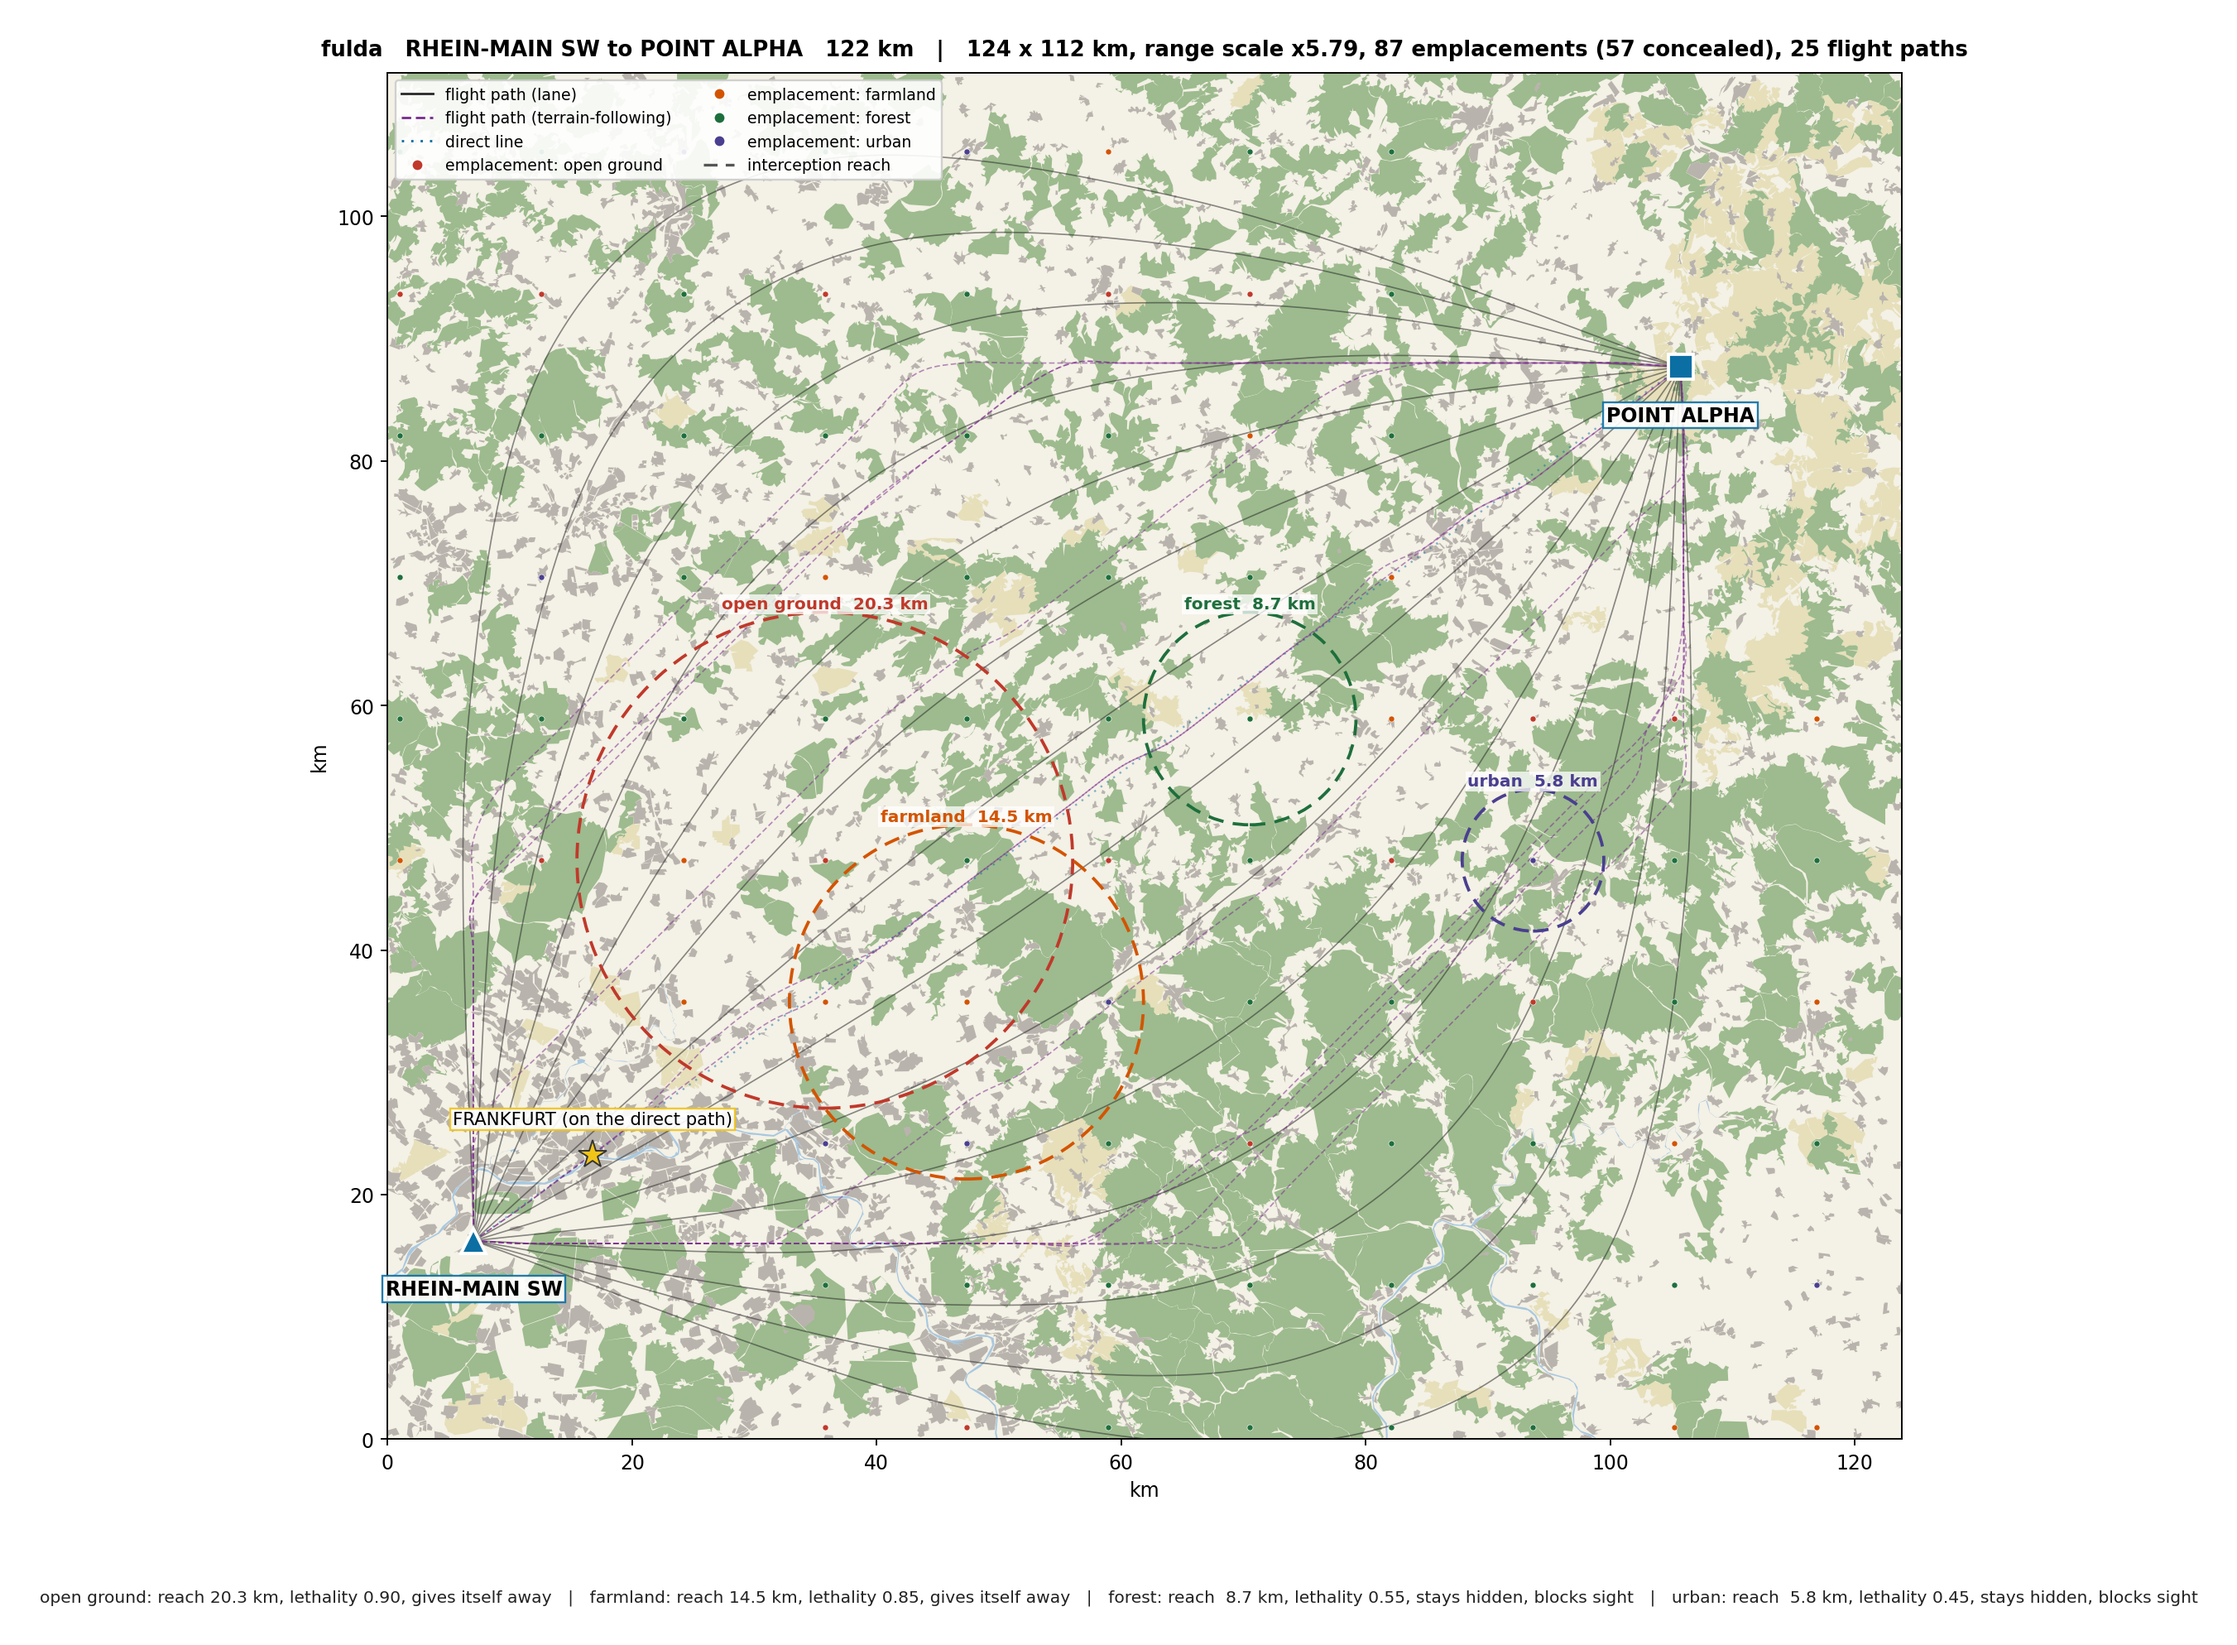
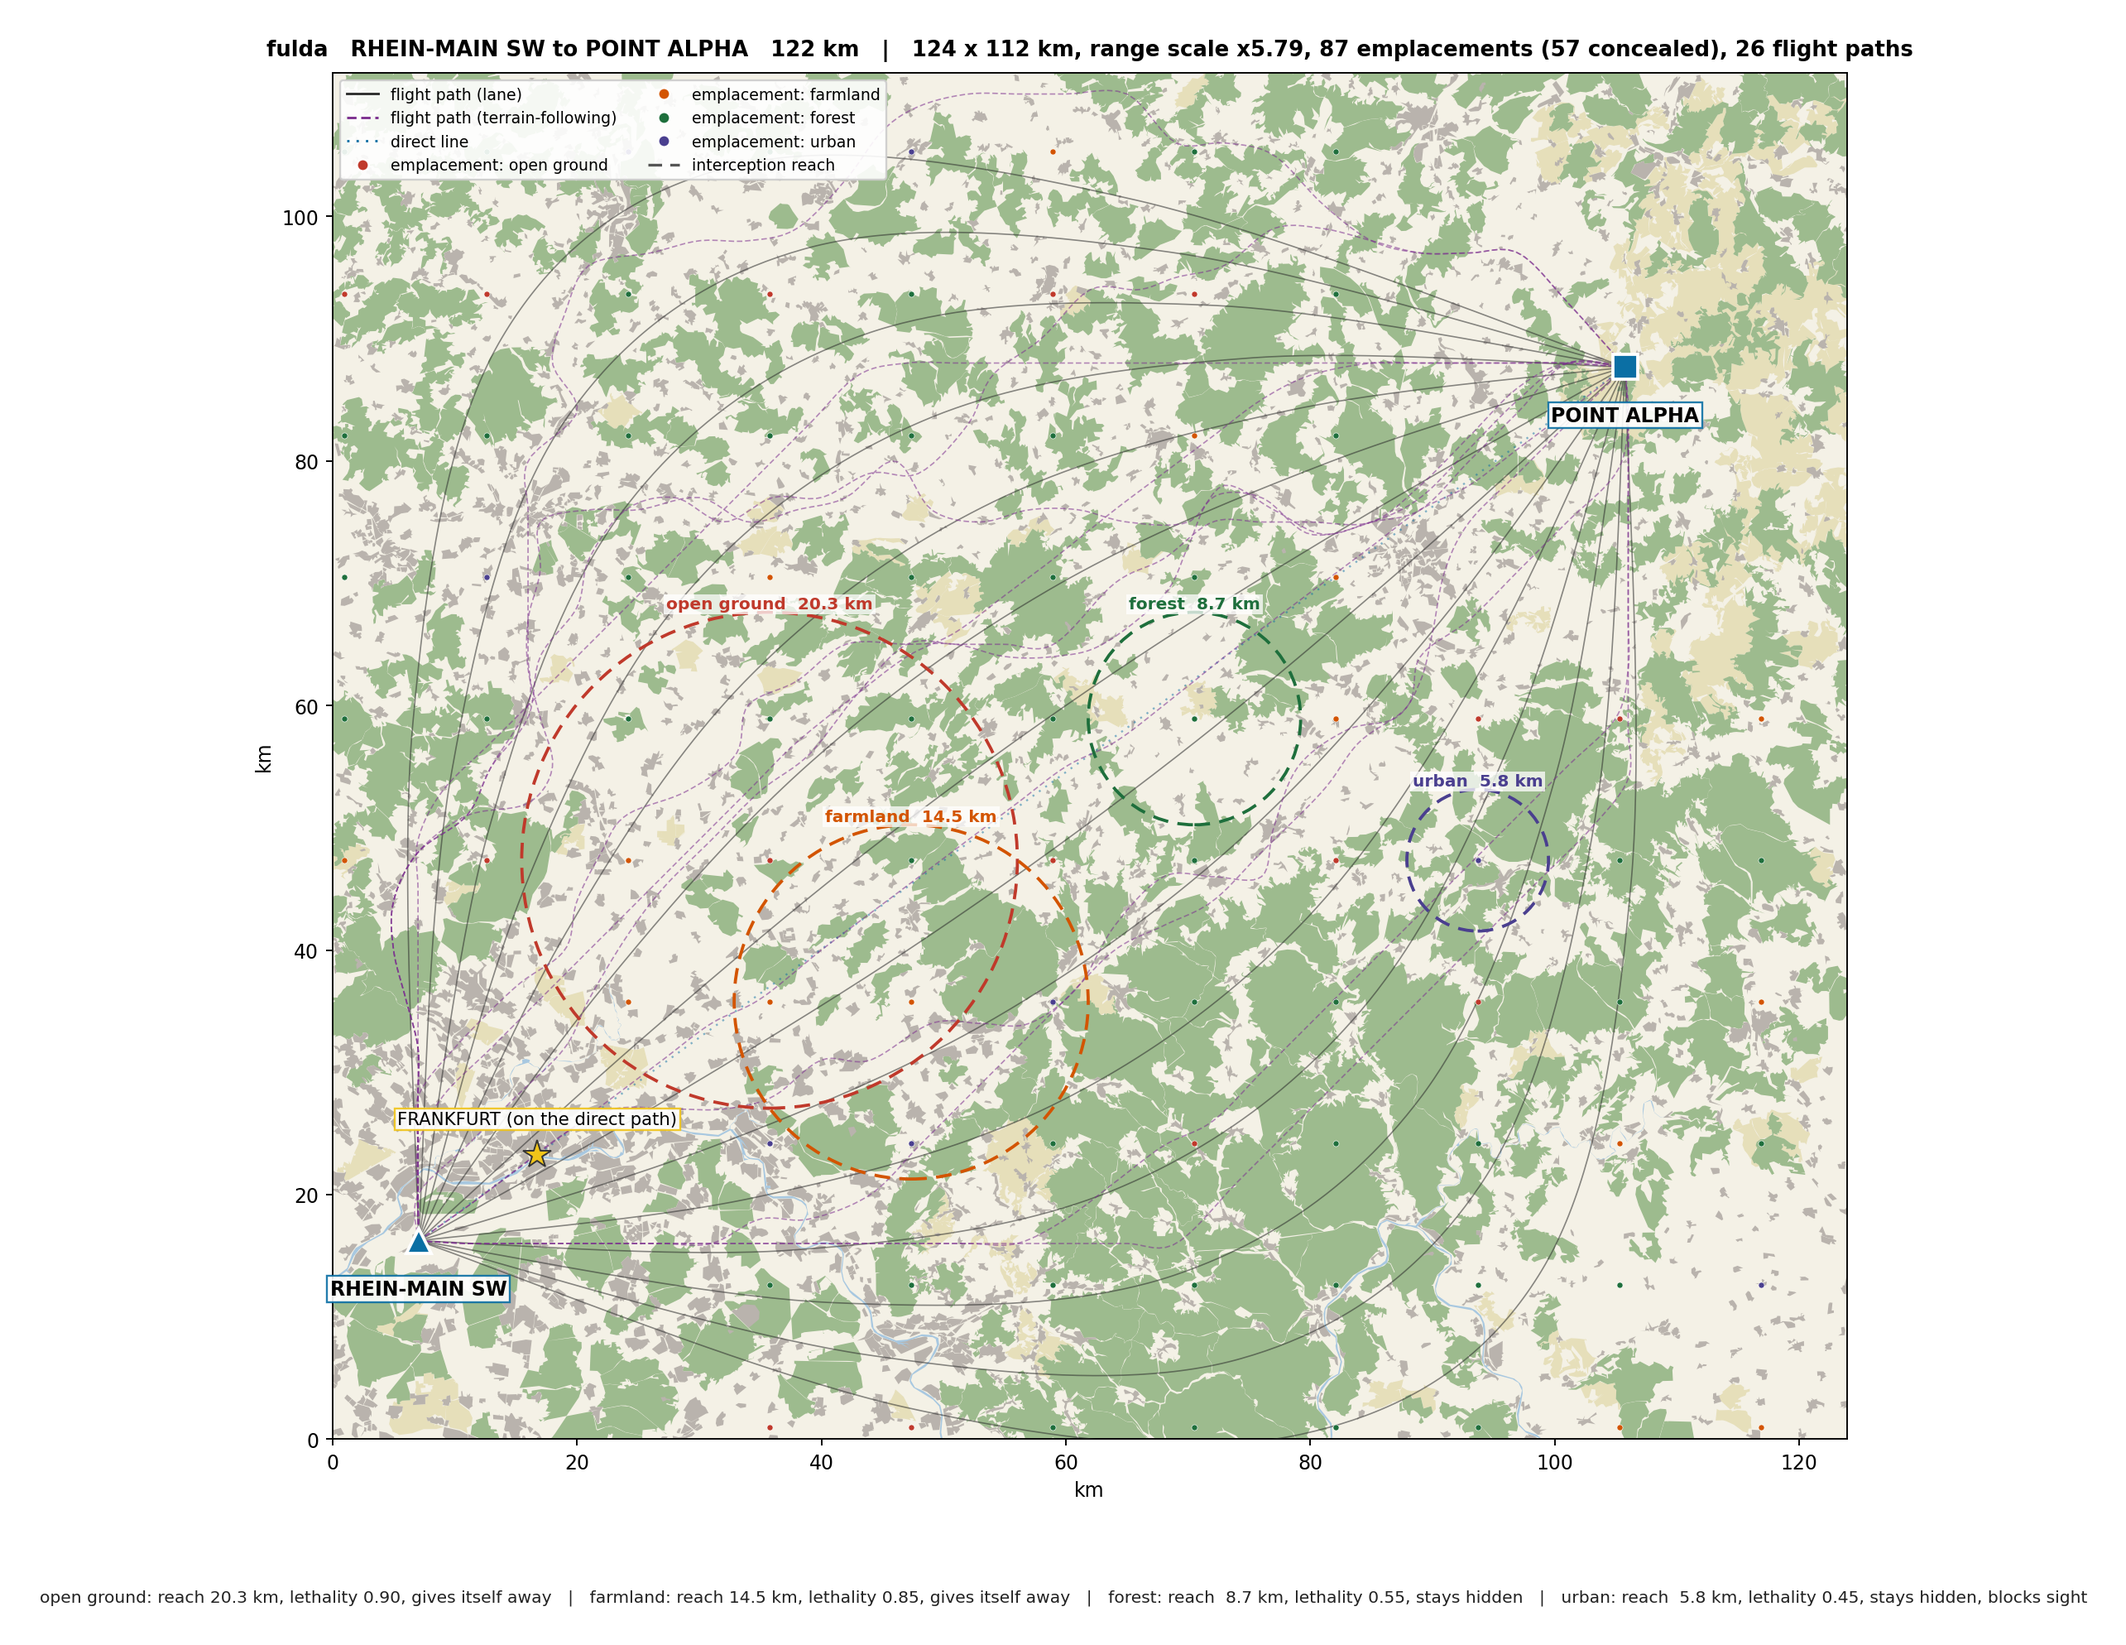
gen39: ledger the forest-asymmetry design change, VOID the operating point, and disclose the re-run
Rule 8 stated at full strength: symmetric and asymmetric forest are different games, so the whole
STEP 1 RESULTS block is superseded rather than amended, the pinned operating point is void, and the
symmetric artefacts are archived under *_symforest with their own cross-check intact. Records the
prediction before the re-run lands (narva/fulda should revive at 3.2x/13.3x, ukraine should barely
move at 1.0x) so it can be checked rather than rationalised afterwards. Figures regenerated.

Changed region(s): [[0.1246, 0.0, 0.8719, 0.9049], [0.0311, 0.9673, 0.9654, 0.9985], [0.436, 0.0, 0.4671, 0.0312]]

diff --git a/experiments/gen39_concealment.md b/experiments/gen39_concealment.md
@@ -444,3 +444,32 @@ information-channel mechanic (which is what this act claims), and stop penalisin
 It is a DIFFERENT GAME: nothing measured under symmetric forest may be mixed with it (rule 8).
 Until Kilian decides, the scored theatres remain kgd (primary) + ukraine (held out) and the
 operating point above stands.
+
+### DESIGN CHANGE: FOREST HIDES WITHOUT BLINDING (2026-07-25, Kilian's call; SHA at the commit)
+
+> "With modern radar equipment the team in the forest should only hide it, not blind it."
+
+Table v2 blocked sight SYMMETRICALLY, so a team in woodland was invisible AND blind. That is not
+the physics (canopy conceals a ground team from an aircraft looking down; it does not stop a
+radar-cued crew engaging an aircraft above the treeline) and it is what killed two theatres.
+**`TERRAIN_V2["forest"]["los"]` True -> False; `reveal` stays False. Urban keeps both, because
+buildings are genuine vertical obstacles.** `terrain_v2(forest_los=True)` restores the symmetric
+rule as the disclosed sensitivity row.
+
+**Rule 8 applies with full force: the symmetric and asymmetric tables are DIFFERENT GAMES.** Every
+number in "STEP 1 RESULTS" above was measured under the symmetric rule and is superseded, not
+amended. Those artefacts are archived as `models/runs/gen39_screen{,2}_symforest*` and keep their
+own cross-check (0 mismatches on 8640 cells). **The pinned operating point above is VOID** and is
+re-picked from the re-run. Nothing from the two tables may appear in one figure or one ladder.
+
+**The LLM brief is repaired in the same commit,** because it carried the same conflation and is the
+likelier of the two candidate causes of gen33's failed terrain control: `_physics_table_text`
+derived "it conceals you (blocks line of sight)" from the single `los` flag, so the model was told
+woodland concealed it (which the simulator did not implement) via a flag that actually means
+sight-masking. Hiding and sight-blocking are now stated separately, and `serialise_theatre` takes
+the table in force (defaulting to v1, so gen33's briefs still reproduce verbatim). Three contract
+tests pin the asymmetry, the default blocker set and the brief wording; suite 235 -> 238 green.
+
+**Re-run launched** (same grid, same harness, ~2.5 h). Prediction to be checked against it, on
+record before the numbers land: narva and fulda should become playable, since the mechanism was
+measured at 13.3x on fulda and 3.2x on narva, while ukraine (12% wooded, 1.0x) should barely move.
